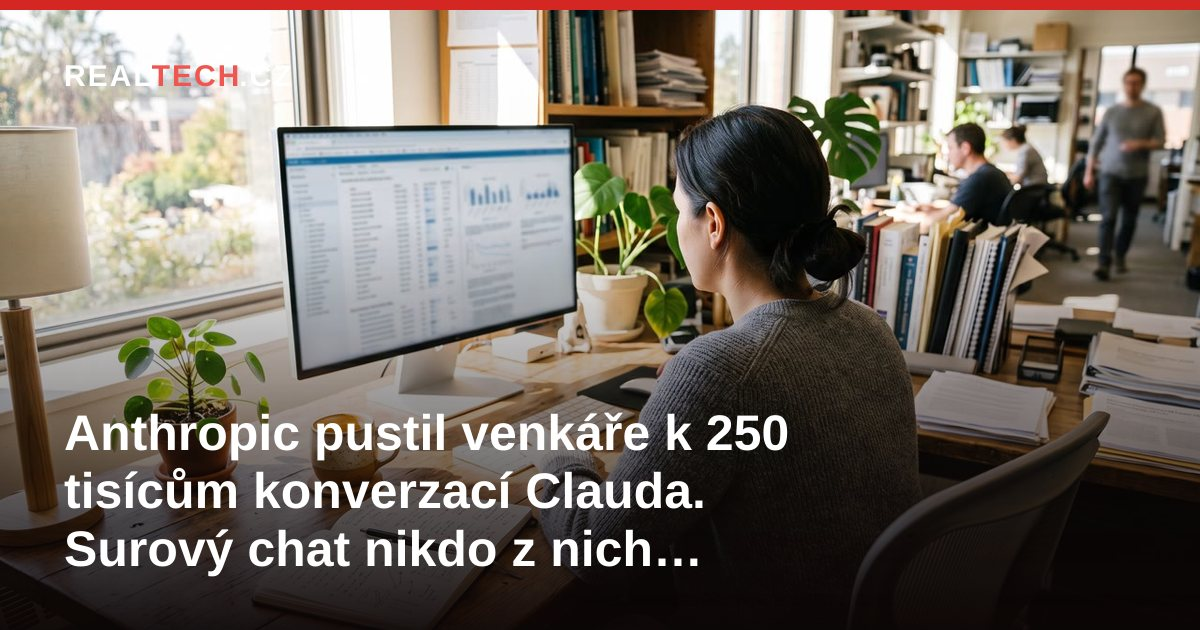
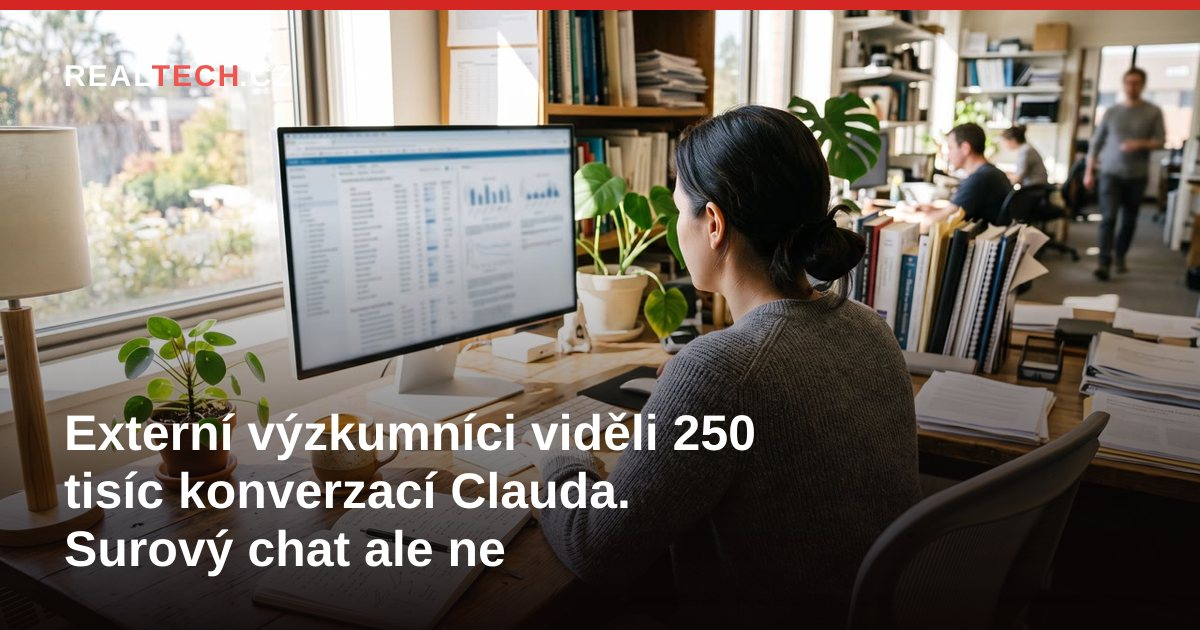
Oprava: Anthropic Insights — externí výzkumníci, ne venkáři, není to leak (#354)
* Oprava článku Anthropic Insights: pryč venkáři, není to leak

Title a úvod teď říkají, že externí výzkumníci viděli agregáty
z 250 tisíc konverzací Clauda. Surový chat neviděli.

* Přegenerovaný OG pro nový title článku Anthropic Insights

Z1072 vyžaduje commitnutý derivát. Náhledovka článku beze změny.

---------

Changed region(s): [[0.0308, 0.6333, 0.6783, 0.8143], [0.3083, 0.8444, 0.5858, 0.9048]]

diff --git a/src/content/clanky/anthropic-insights-250-tisic.md b/src/content/clanky/anthropic-insights-250-tisic.md
@@ -1,6 +1,6 @@
 ---
-title: "Anthropic pustil venkáře k 250 tisícům konverzací Clauda. Surový chat nikdo z nich neviděl"
-description: "Oficiální pilot Anthropic Insights (dřív Clio): Stanford, Oxford a METR dostali agregovaná data z dubna a května 2026. Firma říká, že je to poprvé."
+title: "Externí výzkumníci viděli 250 tisíc konverzací Clauda. Surový chat ale ne"
+description: "Oficiální pilot Anthropic Insights (dřív Clio): Stanford, Oxford a METR dostali agregovaná data z dubna a května 2026. Surový chat neviděli. Firma říká, že je to poprvé."
 category: "AI Report"
 date: "2026-08-26"
 zprava: true
@@ -10,9 +10,9 @@ audio:
   duration: 1857
 ---
 
-Anthropic 26. srpna 2026 zveřejnil pilot, který pustil tři externí skupiny k agregovaným datům o reálném používání Clauda. Nástroj se jmenuje Anthropic Insights. Dřív Clio. Interně ho firma používá na vzorce v milionech konverzací. Sběr dat běžel u Anthropicu. Analýzu si výzkumníci dělali sami.
+Anthropic 26. srpna 2026 zveřejnil oficiální pilot Anthropic Insights. Lidé zvenčí, externí výzkumníci ze Stanfordu, Oxfordu a METR, dostali přístup k agregovaným datům o reálném používání Clauda. Surové konverzace neviděli. Nástroj dřív běžel interně pod jménem Clio. Firma ho používá na vzorce v milionech konverzací. Sběr dat zůstal u Anthropicu. Analýzu si výzkumníci dělali sami.
 
-Šlo podle firmy zhruba o 250 000 konverzací z Claude.ai nebo Claude Code za duben a květen 2026. Partneři: Social and Language Technologies Lab na Stanfordu, Human Information Processing Lab v Oxfordu a neziskovka METR, která hodnotí frontier modely. Agregovaná data z každého projektu Anthropic zveřejnil. Surové konverzace výzkumníci neviděli. Viděli jen agregované kategorie po právním a privacy review.
+Šlo podle firmy zhruba o 250 000 konverzací z Claude.ai nebo Claude Code za duben a květen 2026. Partneři: Social and Language Technologies Lab na Stanfordu, Human Information Processing Lab v Oxfordu a neziskovka METR, která hodnotí frontier modely. Agregovaná data z každého projektu Anthropic zveřejnil. Surové chaty na veřejnost nešly. Výzkumníci viděli jen agregované kategorie po právním a privacy review.
 
 Firma píše, že věří, že je to poprvé, kdy externí výzkumníci na vlastních usage datech AI laboratoře pustili veřejné nezávislé studie. To je tvrzení Anthropicu. Ne nezávisle ověřený fakt.
 
